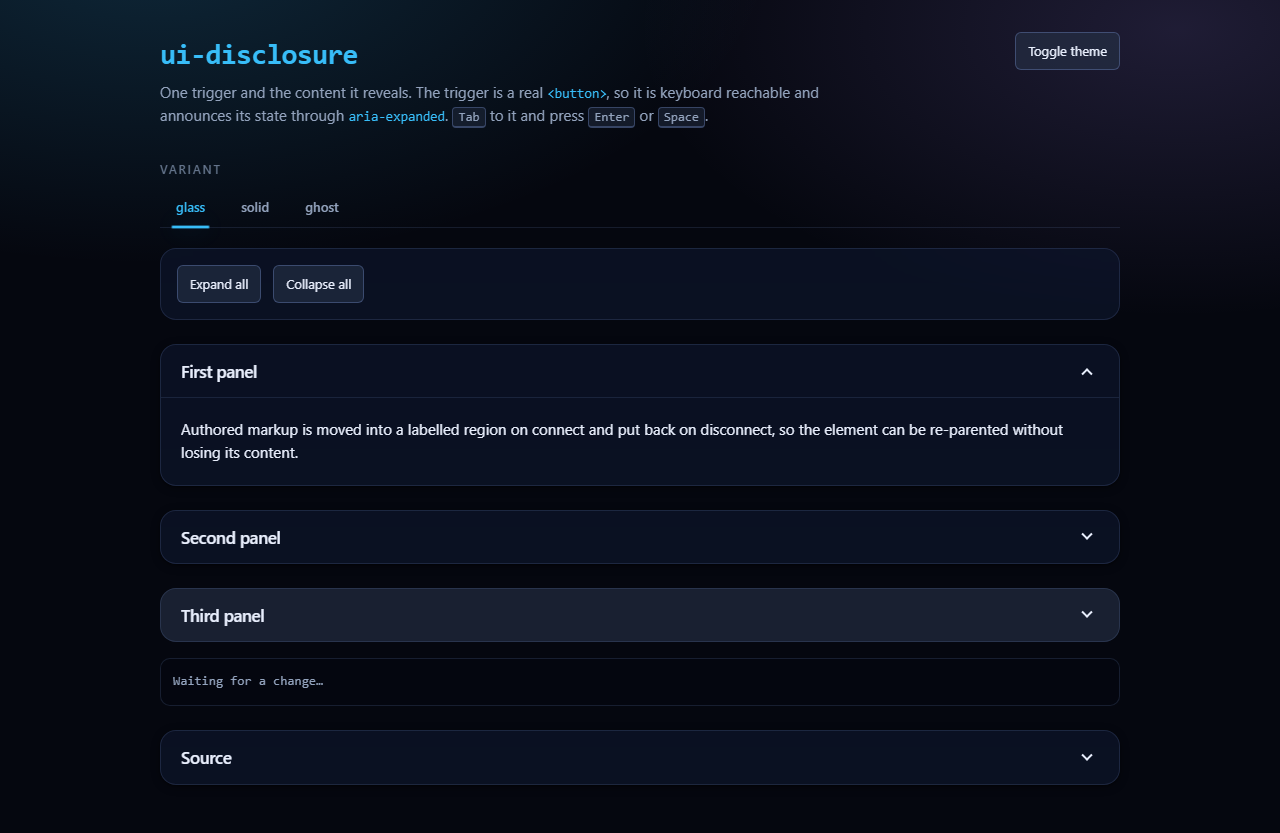
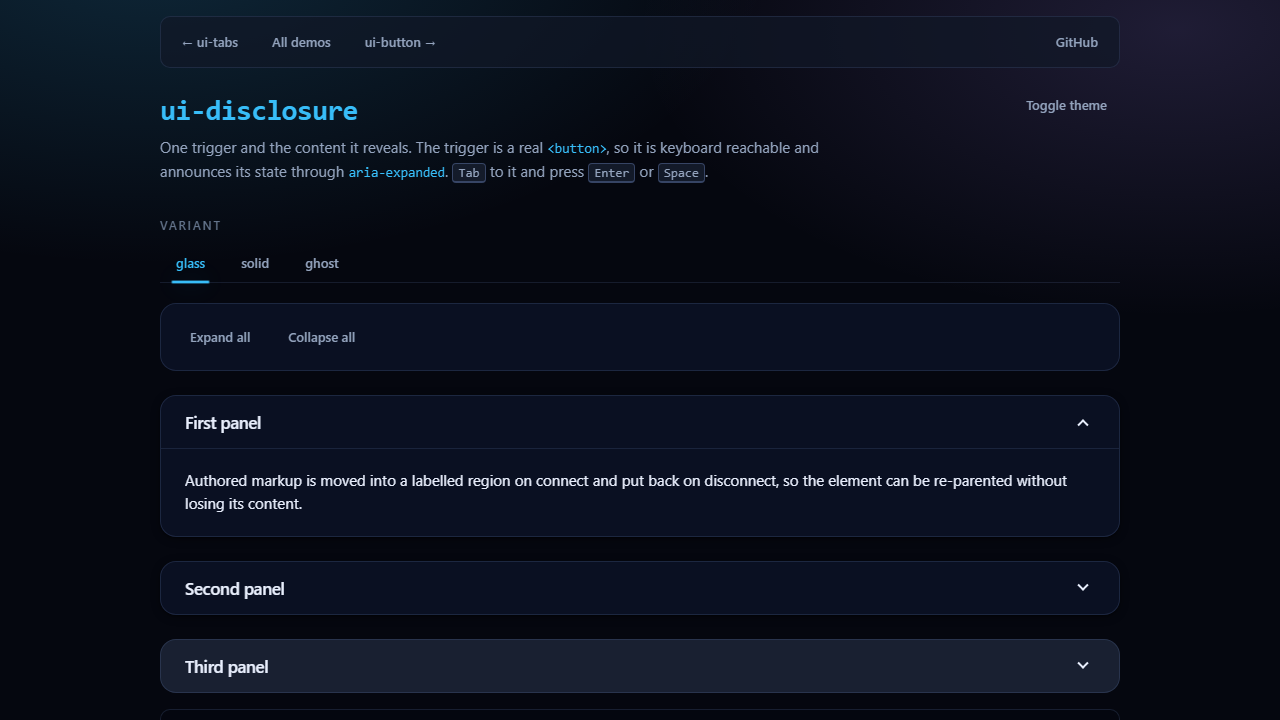
fix(disclosure): a nested panel showed its parent's arrow state
The open-state rule was a descendant selector:

    ui-disclosure[open] .ui4u-disclosure__summary::after

so opening one disclosure matched the trigger of every disclosure inside it.
With a nested panel, opening the outer rotated the inner chevron to the open
angle too — while the inner panel was still closed. The arrow then claimed the
opposite of the truth about what was inside.

Every rule that targets a summary or a region is now scoped with `>` to the
component's own trigger and content, which are direct children.

Second bug found on the way: the wide-viewport refinement was written as
@container (min-width: 40rem), but nothing in the library declares
container-type on ui-disclosure, so that block could never match and the
roomier padding it asked for silently never applied. It is now a viewport
query, which states the same intent without quietly adding size containment to
a component that wraps arbitrary author content.

Three e2e tests pin the behaviour: a nested panel's arrow follows its own state
rather than its parent's, closing it rotates only its own arrow back, and it
keeps its state when the parent closes.

Verified: 931 unit tests and 640 e2e pass with 0 failures (28 skipped); lint,
Prettier and the Pages build clean.

diff --git a/e2e/disclosure.spec.js b/e2e/disclosure.spec.js
@@ -93,3 +93,92 @@ test('the Source panel is a ui-disclosure and opens on click', async ({ page }) 
   await expect(source.locator('[data-highlight]')).toHaveCount(3);
   expect(await source.locator('span[class^="tok-"]').count()).toBeGreaterThan(0);
 });
+
+/* --- nested panels ------------------------------------------------------- */
+
+/**
+ * The chevron transform of a disclosure's own trigger.
+ *
+ * Compared as a matrix rather than a boolean: two chevrons at the same angle
+ * mean the same state, so the assertion is "do these two agree, and should
+ * they?".
+ *
+ * Only meaningful while both chevrons are *rendered*. A closed disclosure sets
+ * `hidden` on its region, and anything inside a `display: none` subtree reports
+ * `transform: none` — so every case below opens the outer panel first.
+ *
+ * @param {import('@playwright/test').Page} page
+ * @returns {Promise<{ outerOpen: boolean, innerOpen: boolean, same: boolean }>}
+ */
+async function chevrons(page) {
+  // Long enough for the 200ms transform transition to settle.
+  await page.waitForTimeout(450);
+
+  return page.evaluate(() => {
+    const outer = document.querySelectorAll('ui-disclosure')[1];
+    const inner = outer.querySelector('ui-disclosure');
+
+    const transform = (element) =>
+      element ? getComputedStyle(element, '::after').transform : /** @type {never} */ (undefined);
+
+    const outerTrigger = outer.querySelector(':scope > .ui4u-disclosure__summary');
+    const innerTrigger = inner.querySelector(':scope > .ui4u-disclosure__summary');
+
+    return {
+      outerOpen: outer.hasAttribute('open'),
+      innerOpen: inner.hasAttribute('open'),
+      same: transform(outerTrigger) === transform(innerTrigger),
+    };
+  });
+}
+
+test('a nested panel shows its own arrow state, not its parent', async ({ page }) => {
+  // The bug: `ui-disclosure[open] .ui4u-disclosure__summary` is a descendant
+  // selector, so opening the outer panel rotated the inner chevron too — and
+  // the inner panel was still closed.
+  await page.getByRole('button', { name: 'Second panel' }).click();
+
+  const open = await chevrons(page);
+  expect(open.outerOpen).toBe(true);
+  expect(open.innerOpen).toBe(false);
+  expect(open.same).toBe(false);
+
+  // Opening the inner one then puts them in the same state, so they agree again.
+  await page.getByRole('button', { name: 'Nested panel' }).click();
+
+  const both = await chevrons(page);
+  expect(both.outerOpen).toBe(true);
+  expect(both.innerOpen).toBe(true);
+  expect(both.same).toBe(true);
+});
+
+test('closing a nested panel rotates only its own arrow back', async ({ page }) => {
+  await page.getByRole('button', { name: 'Second panel' }).click();
+  await page.getByRole('button', { name: 'Nested panel' }).click();
+  expect((await chevrons(page)).same).toBe(true);
+
+  await page.getByRole('button', { name: 'Nested panel' }).click();
+
+  const after = await chevrons(page);
+  expect(after.outerOpen).toBe(true);
+  expect(after.innerOpen).toBe(false);
+  expect(after.same).toBe(false);
+});
+
+test('a nested panel keeps its state when its parent closes', async ({ page }) => {
+  await page.getByRole('button', { name: 'Second panel' }).click();
+  await page.getByRole('button', { name: 'Nested panel' }).click();
+  await page.getByRole('button', { name: 'Second panel' }).click();
+
+  // The inner trigger now sits inside a hidden region, so it is out of the
+  // accessibility tree and cannot be reached by role. Read the DOM directly:
+  // what matters is that closing the parent did not reset the child.
+  const expanded = await page.evaluate(() => {
+    const outer = document.querySelectorAll('ui-disclosure')[1];
+    const inner = outer.querySelector('ui-disclosure');
+    const trigger = inner.querySelector(':scope > .ui4u-disclosure__summary');
+    return trigger ? trigger.getAttribute('aria-expanded') : null;
+  });
+
+  expect(expanded).toBe('true');
+});

diff --git a/src/components/disclosure/disclosure.css b/src/components/disclosure/disclosure.css
@@ -16,7 +16,7 @@ ui-disclosure {
   overflow: hidden;
 }
 
-ui-disclosure .ui4u-disclosure__summary {
+ui-disclosure > .ui4u-disclosure__summary {
   display: flex;
   align-items: center;
   justify-content: space-between;
@@ -38,18 +38,18 @@ ui-disclosure .ui4u-disclosure__summary {
     background-color var(--ui4u-duration-fast) var(--ui4u-ease-standard);
 }
 
-ui-disclosure .ui4u-disclosure__summary:hover {
+ui-disclosure > .ui4u-disclosure__summary:hover {
   color: var(--ui4u-primary);
   background: var(--ui4u-surface-3);
 }
 
-ui-disclosure .ui4u-disclosure__summary:focus-visible {
+ui-disclosure > .ui4u-disclosure__summary:focus-visible {
   outline: none;
   box-shadow: var(--ui4u-focus-ring), var(--ui4u-focus-ring-offset-shadow);
 }
 
 /* Chevron drawn with two borders, so it inherits the current color. */
-ui-disclosure .ui4u-disclosure__summary::after {
+ui-disclosure > .ui4u-disclosure__summary::after {
   content: '';
   flex: 0 0 auto;
   width: var(--ui4u-space-2);
@@ -62,17 +62,17 @@ ui-disclosure .ui4u-disclosure__summary::after {
   transition: transform var(--ui4u-duration-base) var(--ui4u-ease-out);
 }
 
-ui-disclosure[open] .ui4u-disclosure__summary::after {
+ui-disclosure[open] > .ui4u-disclosure__summary::after {
   transform: rotate(225deg) translate(-25%, -25%);
 }
 
-ui-disclosure .ui4u-disclosure__content {
+ui-disclosure > .ui4u-disclosure__content {
   padding: 0 var(--ui4u-space-5) var(--ui4u-space-5);
   border-top: 1px solid var(--ui4u-divider);
   padding-top: var(--ui4u-space-5);
 }
 
-ui-disclosure .ui4u-disclosure__content[hidden] {
+ui-disclosure > .ui4u-disclosure__content[hidden] {
   display: none;
 }
 
@@ -93,19 +93,26 @@ ui-disclosure[data-variant='ghost'] {
   border-color: var(--ui4u-border-subtle);
 }
 
-@container (min-width: 40rem) {
-  ui-disclosure .ui4u-disclosure__summary {
+/*
+ * Was `@container (min-width: 40rem)`, which could never match: nothing in the
+ * library declares `container-type` on `ui-disclosure`, so the roomier padding
+ * it asked for silently never applied. A viewport query states the same intent
+ * without quietly adding size containment to a component that wraps arbitrary
+ * author content.
+ */
+@media (min-width: 40rem) {
+  ui-disclosure > .ui4u-disclosure__summary {
     padding-inline: var(--ui4u-space-6);
   }
 
-  ui-disclosure .ui4u-disclosure__content {
+  ui-disclosure > .ui4u-disclosure__content {
     padding-inline: var(--ui4u-space-6);
   }
 }
 
 @media (prefers-reduced-motion: reduce) {
-  ui-disclosure .ui4u-disclosure__summary,
-  ui-disclosure .ui4u-disclosure__summary::after {
+  ui-disclosure > .ui4u-disclosure__summary,
+  ui-disclosure > .ui4u-disclosure__summary::after {
     transition: none;
   }
 }
